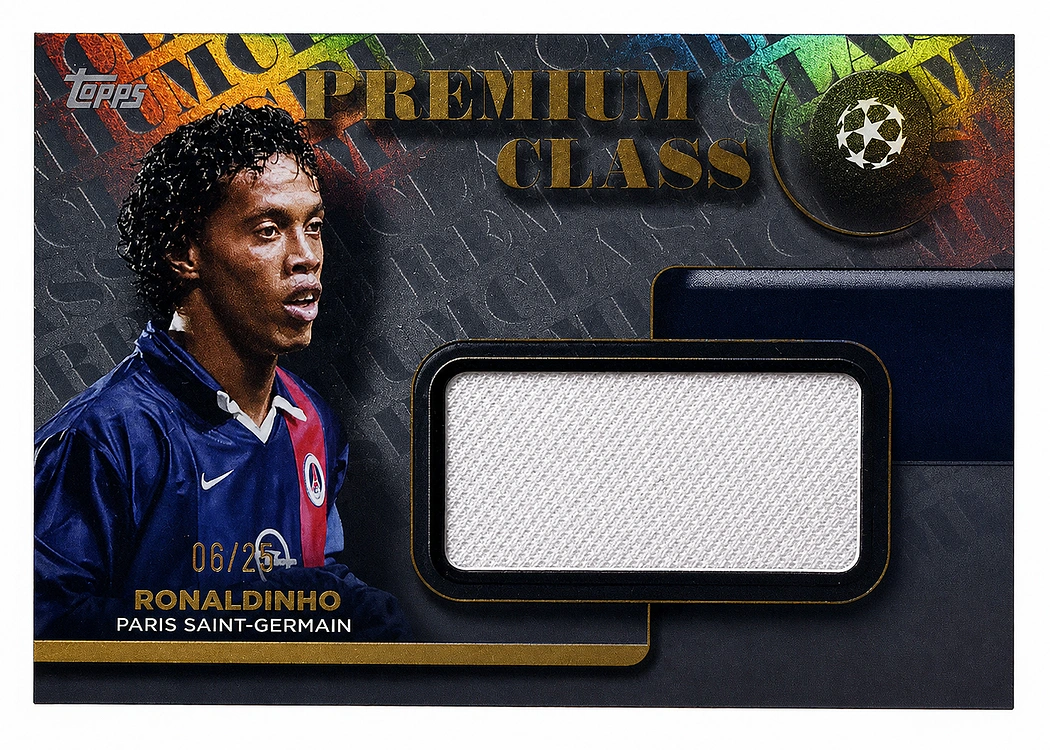
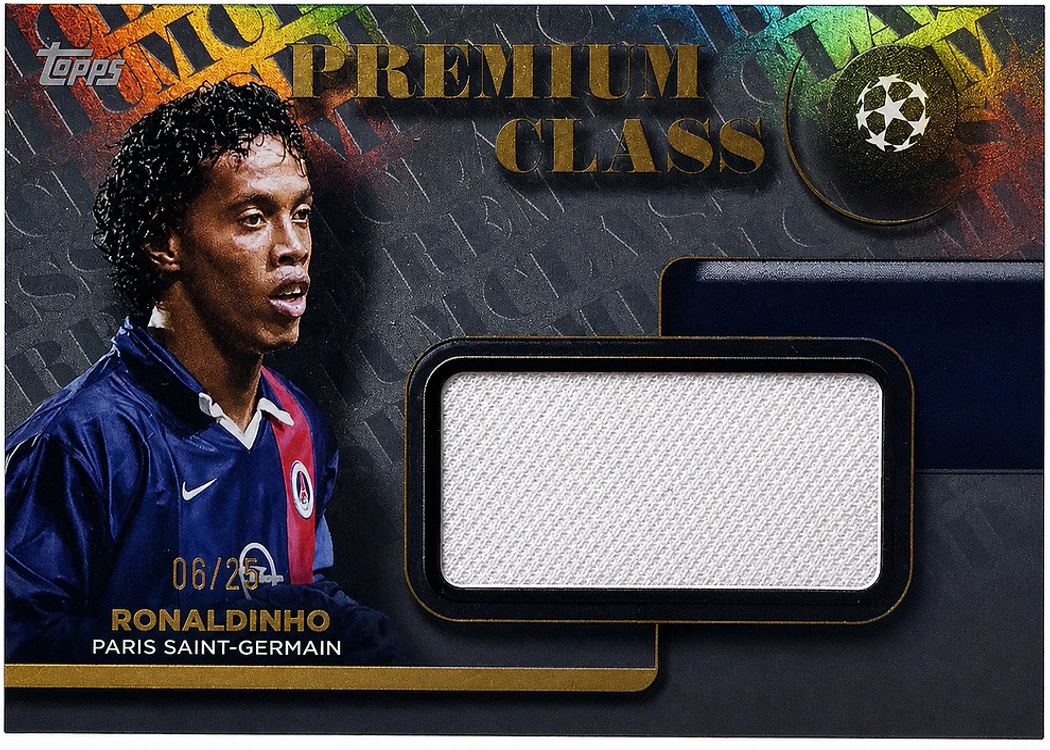
Label and refine UCC flagship card photos

diff --git a/data/catalogue.ts b/data/catalogue.ts
@@ -2150,6 +2150,8 @@ type UccFlagshipCardInput = {
   officialName: string;
   zh: string;
   es: string;
+  serial?: string | null;
+  displayParallelName?: string;
   group?: CardGroup;
   section?: CardSection;
   parallels?: CardDesign["parallels"];
@@ -2267,6 +2269,8 @@ const uccFlagshipCard = ({
   officialName,
   zh,
   es,
+  serial = null,
+  displayParallelName,
   group = "insert",
   section = "regular-insert",
   parallels,
@@ -2279,7 +2283,8 @@ const uccFlagshipCard = ({
     name: names(zh, officialName, es),
     group,
     section,
-    serial: null,
+    serial,
+    displayParallelName,
     parallels,
     parallelCoverage: parallels ? "complete" : undefined,
     layout,
@@ -2319,24 +2324,24 @@ const uccFlagshipCardDesigns: CardDesign[] = [
   uccFlagshipCard({ slug: "jigsaw", officialName: "Jigsaw", zh: "拼图", es: "Rompecabezas", section: "rare-insert" }),
   uccFlagshipCard({ slug: "hype", officialName: "Hype", zh: "焦点新星", es: "Hype", section: "rare-insert" }),
   uccFlagshipCard({ slug: "ultimate-stage-chrome", officialName: "Ultimate Stage Chrome Cards", zh: "终极舞台 Chrome", es: "Ultimate Stage Chrome", section: "rare-insert", parallels: [{ name: "Base", serial: null }, { name: "Aqua Refractor", serial: "/199" }, { name: "Blue Refractor", serial: "/150" }, { name: "Green Refractor", serial: "/99" }, { name: "Purple Refractor", serial: "/75" }, { name: "Gold Refractor", serial: "/50" }, { name: "Orange Refractor", serial: "/25" }, { name: "Black Refractor", serial: "/10" }, { name: "Red Refractor", serial: "/5" }, { name: "Superfractor", serial: "1/1" }] }),
-  uccFlagshipCard({ slug: "regency-chrome", officialName: "Regency Chrome Cards", zh: "摄政 Chrome", es: "Regency Chrome", section: "rare-insert", parallels: [{ name: "Base", serial: null }, { name: "Orange Refractor", serial: "/25" }, { name: "Black Refractor", serial: "/10" }, { name: "Red Refractor", serial: "/5" }, { name: "Superfractor", serial: "1/1" }] }),
+  uccFlagshipCard({ slug: "regency-chrome", officialName: "Regency Chrome Cards", zh: "摄政 Chrome", es: "Regency Chrome", section: "rare-insert", serial: "1/1", displayParallelName: "Superfractor", parallels: [{ name: "Base", serial: null }, { name: "Orange Refractor", serial: "/25" }, { name: "Black Refractor", serial: "/10" }, { name: "Red Refractor", serial: "/5" }, { name: "Superfractor", serial: "1/1" }] }),
   uccFlagshipCard({ slug: "gold-framed-messi-anniversary-sketch-cards", officialName: "Gold Framed Messi Anniversary Sketch Cards", zh: "金框梅西周年手绘卡", es: "Bocetos aniversario de Messi con marco dorado", section: "rare-insert" }),
   uccFlagshipCard({ slug: "topps-ucc-sketch-cards", officialName: "Topps UCC Sketch Cards", zh: "Topps UCC 手绘卡", es: "Bocetos Topps UCC", section: "rare-insert" }),
   uccFlagshipCard({ slug: "the-grail", officialName: "The Grail", zh: "圣杯", es: "El Grial", section: "rare-insert" }),
-  uccFlagshipCard({ slug: "base-card-autograph-variation", officialName: "Base Card Autograph Variation", zh: "基础卡签字变体", es: "Variación autografiada base", section: "rare-insert", parallels: foilAutoParallels }),
-  uccFlagshipCard({ slug: "future-stars-autograph-variation", officialName: "Future Stars Autograph Variation", zh: "未来之星签字变体", es: "Variación autografiada Future Stars", section: "rare-insert", parallels: foilAutoParallels }),
+  uccFlagshipCard({ slug: "base-card-autograph-variation", officialName: "Base Card Autograph Variation", zh: "基础卡签字变体", es: "Variación autografiada base", section: "rare-insert", serial: "1/1", displayParallelName: "FoilFractor", parallels: foilAutoParallels }),
+  uccFlagshipCard({ slug: "future-stars-autograph-variation", officialName: "Future Stars Autograph Variation", zh: "未来之星签字变体", es: "Variación autografiada Future Stars", section: "rare-insert", serial: "/10", displayParallelName: "Black Foil", parallels: foilAutoParallels }),
   uccFlagshipCard({ slug: "teammates-dual-autographs", officialName: "Teammates Dual Autographs", zh: "队友双人签字", es: "Autógrafos dobles de compañeros", section: "rare-insert", layout: "landscape", parallels: [{ name: "Base", serial: null }, { name: "Orange Foil", serial: "/25" }, { name: "Black Foil", serial: "/10" }, { name: "Red Foil", serial: "/5" }, { name: "FoilFractor", serial: "1/1" }] }),
   uccFlagshipCard({ slug: "roots-autograph-variation", officialName: "Roots Autograph Variation", zh: "根源签字变体", es: "Variación autografiada Roots", section: "rare-insert", parallels: [{ name: "Base", serial: null }, { name: "FoilFractor", serial: "1/1" }] }),
   uccFlagshipCard({ slug: "best-of-the-best-autograph-variation", officialName: "Best of the Best: Legendary Numbers Autograph Variation", zh: "传奇号码签字变体", es: "Variación autografiada Números legendarios", section: "rare-insert", parallels: [{ name: "Base", serial: null }, { name: "FoilFractor", serial: "1/1" }] }),
-  uccFlagshipCard({ slug: "topps-1955-autographs", officialName: "Topps 1955 Autographs", zh: "Topps 1955 签字", es: "Autógrafos Topps 1955", section: "rare-insert", layout: "landscape", parallels: [{ name: "Green Refractor", serial: "/99" }, { name: "Gold Refractor", serial: "/50" }, { name: "Orange Refractor", serial: "/25" }, { name: "Black Refractor", serial: "/10" }, { name: "Red Refractor", serial: "/5" }, { name: "Superfractor", serial: "1/1" }] }),
+  uccFlagshipCard({ slug: "topps-1955-autographs", officialName: "Topps 1955 Autographs", zh: "Topps 1955 签字", es: "Autógrafos Topps 1955", section: "rare-insert", layout: "landscape", serial: "/50", displayParallelName: "Gold Refractor", parallels: [{ name: "Green Refractor", serial: "/99" }, { name: "Gold Refractor", serial: "/50" }, { name: "Orange Refractor", serial: "/25" }, { name: "Black Refractor", serial: "/10" }, { name: "Red Refractor", serial: "/5" }, { name: "Superfractor", serial: "1/1" }] }),
   uccFlagshipCard({ slug: "ultimate-stage-chrome-autograph-variation", officialName: "Ultimate Stage Chrome Autograph Variation", zh: "终极舞台 Chrome 签字变体", es: "Variación autografiada Ultimate Stage Chrome", section: "rare-insert", parallels: [{ name: "Base", serial: null }, { name: "Red Refractor", serial: "/5" }, { name: "Superfractor", serial: "1/1" }] }),
-  uccFlagshipCard({ slug: "regency-chrome-autograph-variation", officialName: "Regency Chrome Autograph Variation", zh: "摄政 Chrome 签字变体", es: "Variación autografiada Regency Chrome", section: "rare-insert", parallels: [{ name: "Base", serial: null }, { name: "Red Refractor", serial: "/5" }, { name: "Superfractor", serial: "1/1" }] }),
-  uccFlagshipCard({ slug: "marks-of-excellence", officialName: "Marks of Excellence", zh: "卓越印记签字", es: "Marks of Excellence", section: "rare-insert", parallels: [{ name: "Green Foil", serial: "/99" }, { name: "Gold Foil", serial: "/50" }, { name: "Orange Foil", serial: "/25" }, { name: "Purple Foil", serial: "/10" }, { name: "Red Foil", serial: "/5" }, { name: "Black Foil", serial: "1/1" }] }),
-  uccFlagshipCard({ slug: "topps-superstar-relics", officialName: "Topps Superstar Relics", zh: "Topps 超级球星实物", es: "Reliquias Topps Superstar", section: "rare-insert", layout: "landscape", parallels: [{ name: "Base", serial: null }, { name: "Purple Foil", serial: "/250" }, { name: "Blue Foil", serial: "/150" }, { name: "Green Foil", serial: "/99" }, { name: "Gold Foil", serial: "/50" }, { name: "Orange Foil", serial: "/25" }, { name: "Black Foil", serial: "/10" }, { name: "Red Foil", serial: "/5" }, { name: "FoilFractor", serial: "1/1" }] }),
-  uccFlagshipCard({ slug: "premium-class-relics", officialName: "Premium Class Relics", zh: "尊贵级实物", es: "Reliquias Premium Class", section: "rare-insert", layout: "landscape", parallels: [{ name: "Base", serial: null }, { name: "Red Foil", serial: "/5" }, { name: "FoilFractor", serial: "1/1" }] }),
-  uccFlagshipCard({ slug: "starball-commemorative-relics", officialName: "Starball Commemorative Relics", zh: "星球纪念实物", es: "Reliquias conmemorativas Starball", section: "rare-insert", layout: "landscape", parallels: uccFlagshipStandardInsertParallels }),
-  uccFlagshipCard({ slug: "topps-superstar-autographed-relics", officialName: "Topps Superstar Autographed Relics", zh: "Topps 超级球星签字实物", es: "Reliquias autografiadas Topps Superstar", section: "rare-insert", layout: "landscape", parallels: uccFlagshipStandardInsertParallels }),
-  uccFlagshipCard({ slug: "premium-class-autograph-relics", officialName: "Premium Class Autograph Relics", zh: "尊贵级签字实物", es: "Reliquias autografiadas Premium Class", section: "rare-insert", layout: "landscape", parallels: [{ name: "Base", serial: null }, { name: "Red Foil", serial: "/5" }, { name: "FoilFractor", serial: "1/1" }] }),
+  uccFlagshipCard({ slug: "regency-chrome-autograph-variation", officialName: "Regency Chrome Autograph Variation", zh: "摄政 Chrome 签字变体", es: "Variación autografiada Regency Chrome", section: "rare-insert", serial: "1/1", displayParallelName: "Superfractor", parallels: [{ name: "Base", serial: null }, { name: "Red Refractor", serial: "/5" }, { name: "Superfractor", serial: "1/1" }] }),
+  uccFlagshipCard({ slug: "marks-of-excellence", officialName: "Marks of Excellence", zh: "卓越印记签字", es: "Marks of Excellence", section: "rare-insert", serial: "/10", displayParallelName: "Purple Foil", parallels: [{ name: "Green Foil", serial: "/99" }, { name: "Gold Foil", serial: "/50" }, { name: "Orange Foil", serial: "/25" }, { name: "Purple Foil", serial: "/10" }, { name: "Red Foil", serial: "/5" }, { name: "Black Foil", serial: "1/1" }] }),
+  uccFlagshipCard({ slug: "topps-superstar-relics", officialName: "Topps Superstar Relics", zh: "Topps 超级球星实物", es: "Reliquias Topps Superstar", section: "rare-insert", layout: "landscape", serial: "/150", displayParallelName: "Blue Foil", parallels: [{ name: "Base", serial: null }, { name: "Purple Foil", serial: "/250" }, { name: "Blue Foil", serial: "/150" }, { name: "Green Foil", serial: "/99" }, { name: "Gold Foil", serial: "/50" }, { name: "Orange Foil", serial: "/25" }, { name: "Black Foil", serial: "/10" }, { name: "Red Foil", serial: "/5" }, { name: "FoilFractor", serial: "1/1" }] }),
+  uccFlagshipCard({ slug: "premium-class-relics", officialName: "Premium Class Relics", zh: "尊贵级实物", es: "Reliquias Premium Class", section: "rare-insert", layout: "landscape", serial: "/25", displayParallelName: "Base", parallels: [{ name: "Base", serial: "/25" }, { name: "Red Foil", serial: "/5" }, { name: "FoilFractor", serial: "1/1" }] }),
+  uccFlagshipCard({ slug: "starball-commemorative-relics", officialName: "Starball Commemorative Relics", zh: "星球纪念实物", es: "Reliquias conmemorativas Starball", section: "rare-insert", layout: "landscape", serial: "/50", displayParallelName: "Gold Foil", parallels: uccFlagshipStandardInsertParallels }),
+  uccFlagshipCard({ slug: "topps-superstar-autographed-relics", officialName: "Topps Superstar Autographed Relics", zh: "Topps 超级球星签字实物", es: "Reliquias autografiadas Topps Superstar", section: "rare-insert", layout: "landscape", serial: "/5", displayParallelName: "Red Foil", parallels: uccFlagshipStandardInsertParallels }),
+  uccFlagshipCard({ slug: "premium-class-autograph-relics", officialName: "Premium Class Autograph Relics", zh: "尊贵级签字实物", es: "Reliquias autografiadas Premium Class", section: "rare-insert", layout: "landscape", serial: "/25", displayParallelName: "Base", parallels: [{ name: "Base", serial: "/25" }, { name: "Red Foil", serial: "/5" }, { name: "FoilFractor", serial: "1/1" }] }),
   uccFlagshipCard({ slug: "griezmann-ucl-milestone-autograph-relic", officialName: "Griezmann UCL Milestone Autograph Relic", zh: "格列兹曼欧冠里程碑签字实物", es: "Reliquia autografiada hito UCL de Griezmann", section: "rare-insert", parallels: [{ name: "Base", serial: null }, { name: "Club Logo", serial: "1/1" }, { name: "Starball", serial: "1/1" }, { name: "Laundry Tag", serial: "1/1" }] }),
 ];
 

diff --git a/tests/catalogue.test.ts b/tests/catalogue.test.ts
@@ -2041,6 +2041,31 @@ describe("Topps UEFA Club Competitions Flagship 2025-26 catalogue", () => {
     ]);
   });
 
+  it("labels the exact parallel shown in each numbered flagship representative photo", () => {
+    const cards = new Map(getSeries(uccFlagshipSlug)?.cardDesigns.map((card) => [card.slug, card]));
+    const picturedParallels = [
+      ["base-card-autograph-variation", "FoilFractor", "1/1"],
+      ["future-stars-autograph-variation", "Black Foil", "/10"],
+      ["regency-chrome", "Superfractor", "1/1"],
+      ["topps-1955-autographs", "Gold Refractor", "/50"],
+      ["regency-chrome-autograph-variation", "Superfractor", "1/1"],
+      ["marks-of-excellence", "Purple Foil", "/10"],
+      ["topps-superstar-relics", "Blue Foil", "/150"],
+      ["premium-class-relics", "Base", "/25"],
+      ["starball-commemorative-relics", "Gold Foil", "/50"],
+      ["topps-superstar-autographed-relics", "Red Foil", "/5"],
+      ["premium-class-autograph-relics", "Base", "/25"],
+    ] as const;
+
+    for (const [slug, displayParallelName, serial] of picturedParallels) {
+      expect({
+        displayParallelName: cards.get(slug)?.displayParallelName,
+        serial: cards.get(slug)?.serial,
+      }, slug).toEqual({ displayParallelName, serial });
+      expect(cards.get(slug)?.parallels, slug).toContainEqual({ name: displayParallelName, serial });
+    }
+  });
+
   it("publishes every available flagship physical image and keeps the unreleased 1/1 milestone family explicit", async () => {
     const series = getSeries(uccFlagshipSlug);
 
